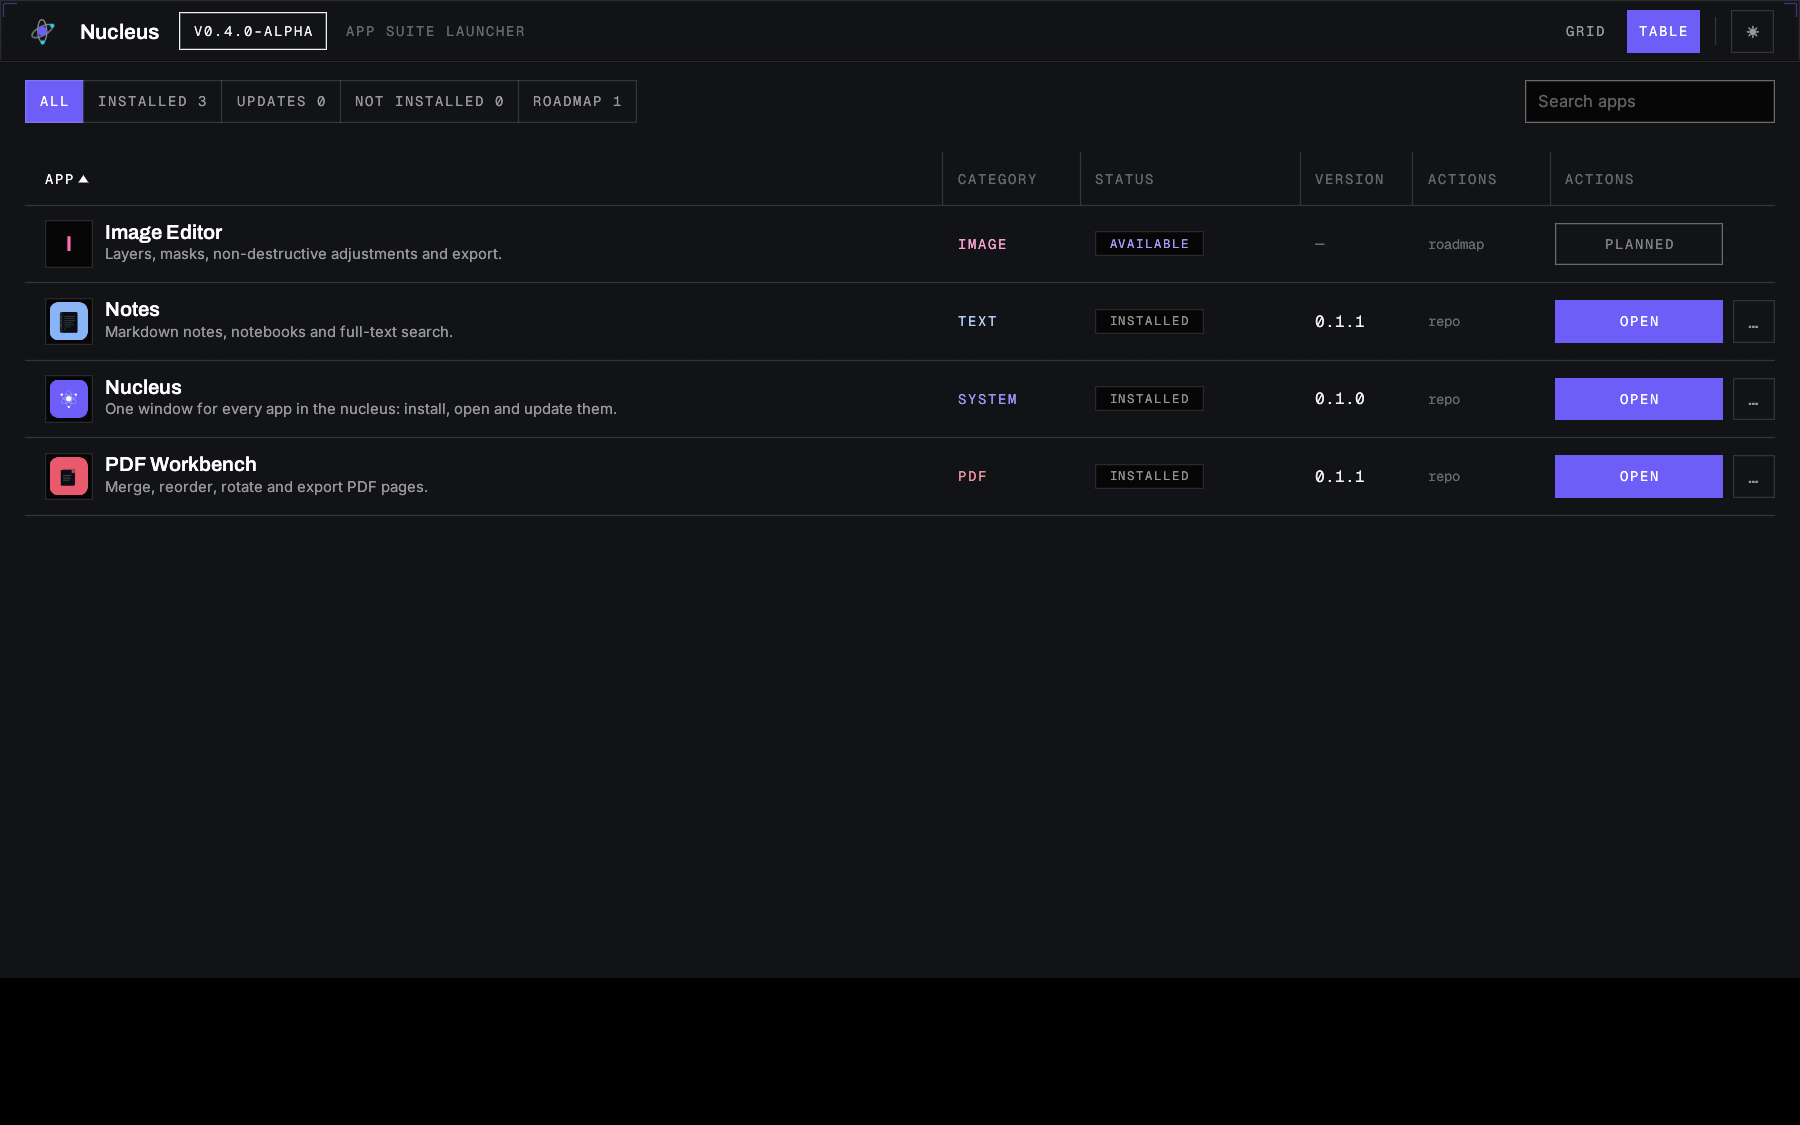
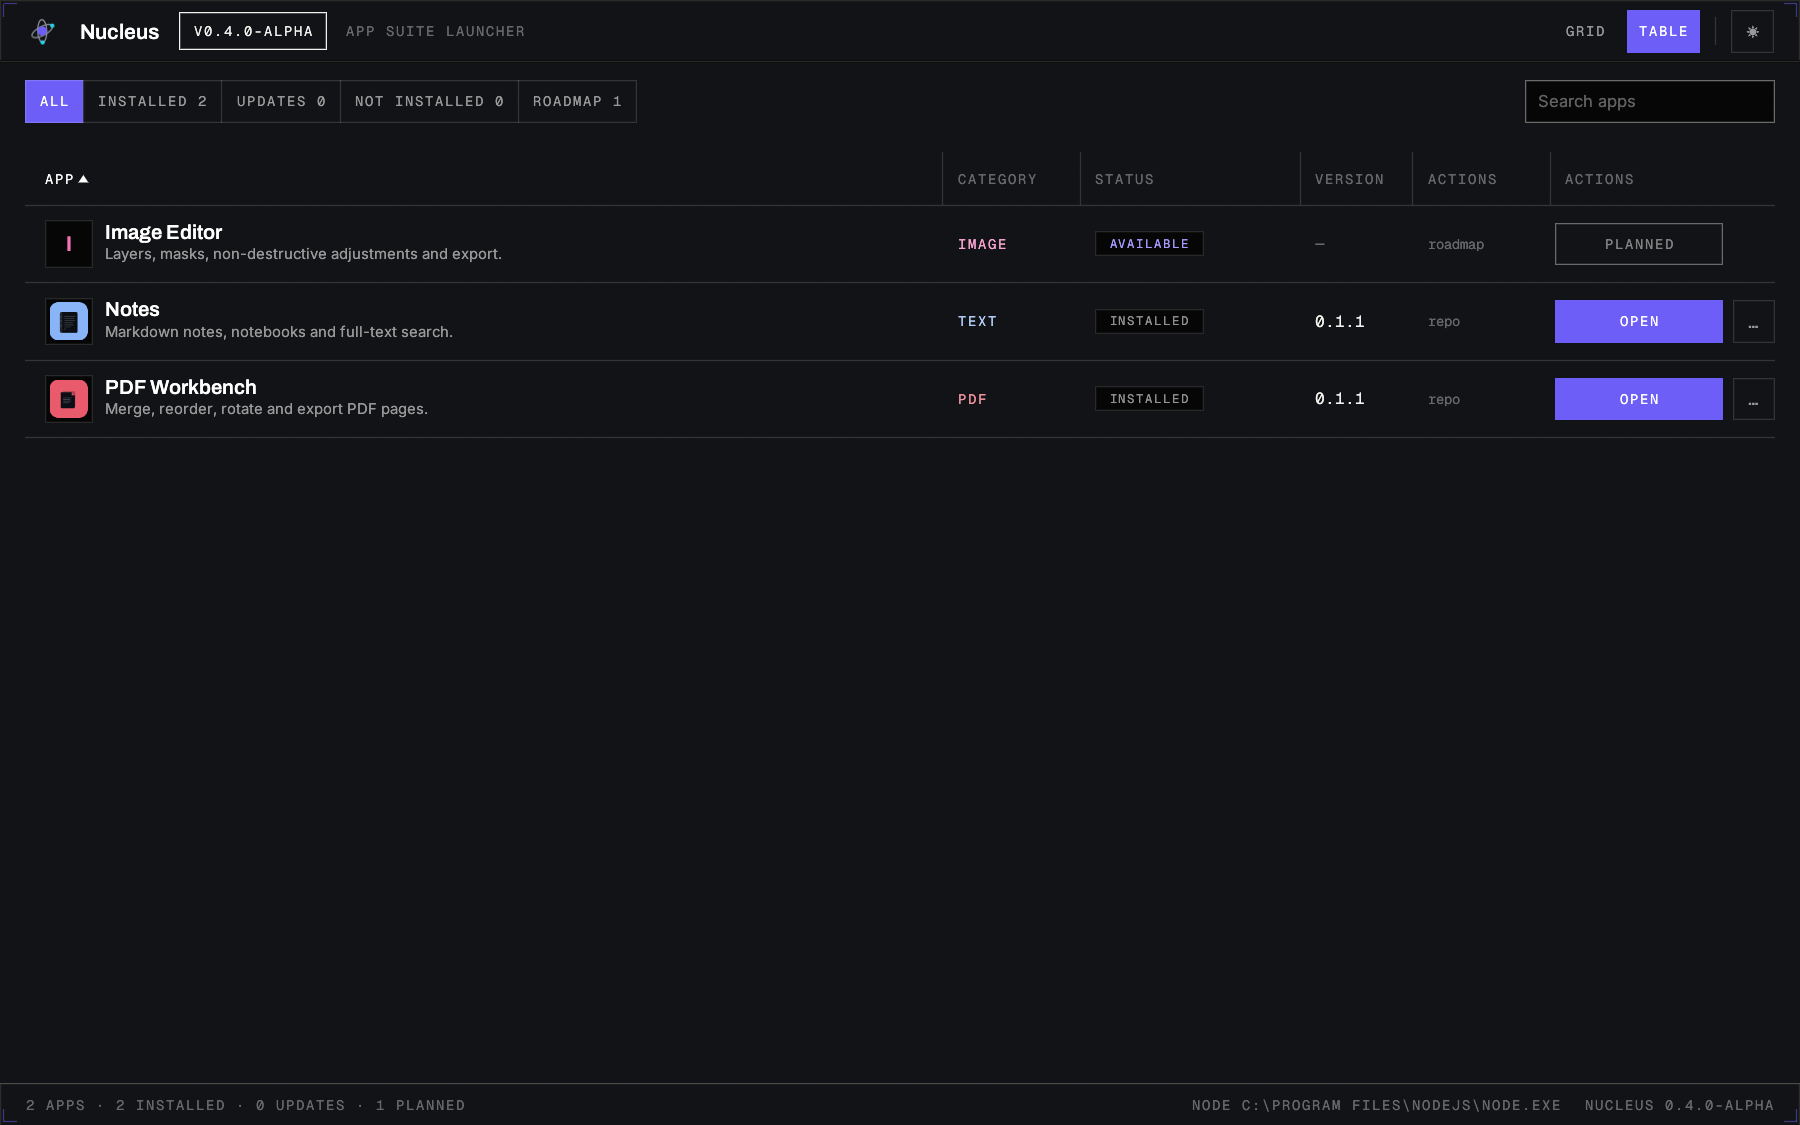
fix(launcher): the launcher no longer lists itself in its own grid

diff --git a/launcher-rs/crates/nucleus-launcher/src/discovery.rs b/launcher-rs/crates/nucleus-launcher/src/discovery.rs
@@ -10,6 +10,12 @@ use nucleus_launcher_core::{
 
 use crate::paths::Paths;
 
+/// The launcher's own app manifest — the TS launcher UI kept in
+/// `apps/launcher/` (it also hosts `roadmap.json`). It must never surface as a
+/// card: you cannot open the launcher from the launcher, and "uninstalling"
+/// it would be nonsense. The folder stays in the repo; the grid just skips it.
+pub const LAUNCHER_SELF_ID: &str = "nucleus.launcher";
+
 /// The result of discovery: app cards, roadmap cards and any non-fatal errors
 /// encountered along the way (an unreadable manifest is skipped, never fatal).
 #[derive(Debug, Clone)]
@@ -101,6 +107,10 @@ pub fn discover(paths: &Paths, catalog: &Catalog) -> Discovery {
         }
         apps.push(catalogue_meta(entry, user_apps_root.join(&entry.id)));
     }
+
+    // Never list the launcher itself (see [`LAUNCHER_SELF_ID`]) — after the
+    // catalogue merge, so a future catalogue entry cannot resurrect it either.
+    apps.retain(|app| app.id() != LAUNCHER_SELF_ID);
 
     // The roadmap lives in the checkout; without one there is simply nothing
     // planned to merge, which is not an error.
@@ -254,6 +264,59 @@ mod tests {
         assert!(is_hidden(Path::new(".git")));
         assert!(is_hidden(Path::new("_wip")));
         assert!(!is_hidden(Path::new("notes")));
+    }
+
+    /// The launcher never appears in its own grid, whether found on disk or
+    /// (hypothetically) via the catalogue — the card would be circular.
+    #[test]
+    fn the_launcher_never_lists_itself() {
+        let base = std::env::temp_dir().join(format!("nucleus-self-{}", std::process::id()));
+        let repo_apps = base.join("apps");
+        std::fs::create_dir_all(repo_apps.join("launcher")).unwrap();
+        std::fs::create_dir_all(repo_apps.join("notes")).unwrap();
+        std::fs::write(
+            repo_apps.join("launcher/nucleus.app.json"),
+            r#"{"id":"nucleus.launcher","name":"Nucleus","version":"0.1.0","coreApiVersion":"1","launch":{"kind":"server","args":["dist/server.js"]}}"#,
+        )
+        .unwrap();
+        std::fs::write(
+            repo_apps.join("notes/nucleus.app.json"),
+            r#"{"id":"nucleus.notes","name":"Notes","version":"0.1.0","coreApiVersion":"1","launch":{"kind":"server","args":["dist/server.js"]}}"#,
+        )
+        .unwrap();
+        let paths = Paths {
+            repo_root: Some(base.clone()),
+            user_apps: repo_apps.clone(),
+            app_roots: vec![repo_apps.clone()],
+            window_profiles_dir: base.join("profiles"),
+            shell_exe: None,
+            icon_ico: None,
+        };
+        // Even a catalogue entry for the launcher must not resurrect the card.
+        let catalog = nucleus_launcher_core::Catalog {
+            suite_version: "0.4.0-alpha".into(),
+            generated_at: None,
+            apps: vec![CatalogEntry {
+                id: LAUNCHER_SELF_ID.into(),
+                repo: "Skeabby/nucleus".into(),
+                release_asset: "nucleus.launcher.nucleusapp".into(),
+                sha256: Some("0".repeat(64)),
+                version: Some("0.1.0".into()),
+                url: None,
+                name: Some("Nucleus".into()),
+                channel: None,
+            }],
+        };
+
+        let discovery = discover(&paths, &catalog);
+        assert!(
+            discovery.app(LAUNCHER_SELF_ID).is_none(),
+            "the launcher must not list itself"
+        );
+        assert!(discovery.card(LAUNCHER_SELF_ID).is_none());
+        assert!(discovery.app("nucleus.notes").is_some(), "real apps stay");
+
+        let _ = std::fs::remove_dir_all(&base);
     }
 
     #[test]

diff --git a/docs/scoreboard.md b/docs/scoreboard.md
@@ -34,7 +34,7 @@ Those land with v0.4; today's proof stops where the checks stop.
 
 | Claim | Measured | Reproduce |
 |---|---|---|
-| Rust unit tests | **109** (nucleus_launcher 70 · nucleus_launcher_core 39) | `cargo test --workspace` |
+| Rust unit tests | **110** (nucleus_launcher 71 · nucleus_launcher_core 39) | `cargo test --workspace` |
 
 The `Launcher (Rust)` workflow runs fmt, clippy (`-D warnings`), tests and a release build on
 every change under `launcher-rs/`; this section is diffed against it there.
